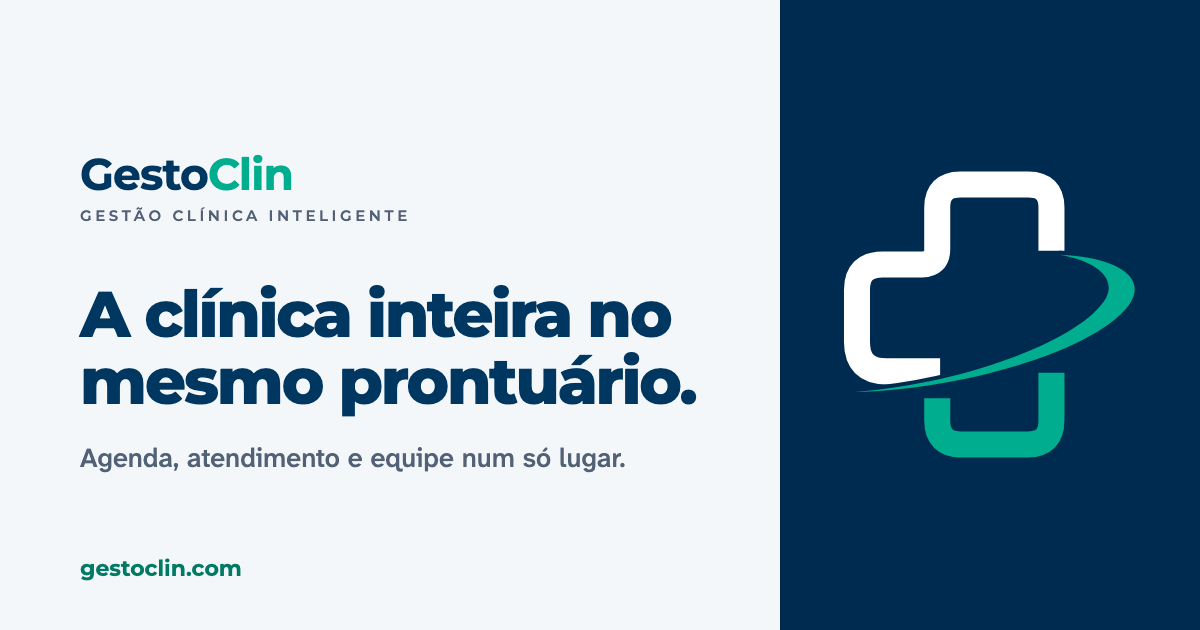
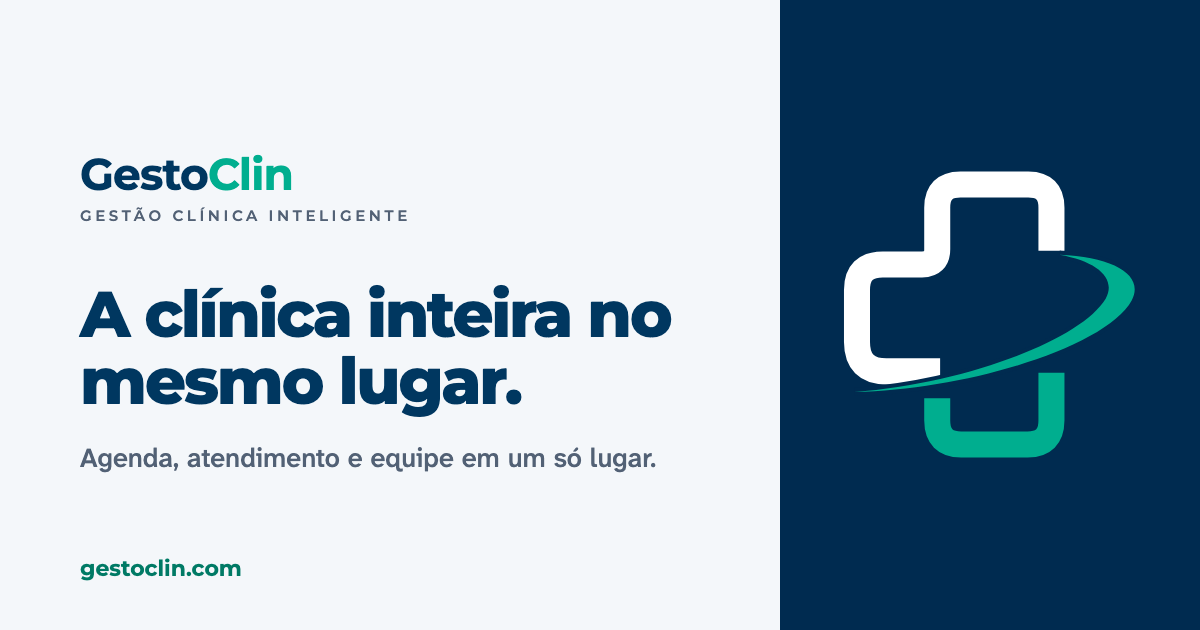
Atualiza o texto do hero, o menu Acessos e a imagem de compartilhamento

Changed region(s): [[0.2775, 0.5429, 0.5858, 0.6635], [0.37, 0.6937, 0.555, 0.754]]

diff --git a/app/components/landing/HeroSection.vue b/app/components/landing/HeroSection.vue
@@ -6,15 +6,15 @@ const loginUrl = usePlatformUrl('/entrar')
   <div class="mx-auto grid max-w-290 grid-cols-1 items-center gap-12 px-4 pt-6 pb-16 sm:px-6 lg:grid-cols-[minmax(0,1fr)_minmax(0,470px)] lg:gap-16 lg:pt-14 lg:pb-24">
     <div>
       <h1 class="mb-6 max-w-[16ch] text-[clamp(40px,5.6vw,68px)] leading-[1.02] font-extrabold tracking-[-0.035em] lg:max-w-[13ch]">
-        A clínica inteira no mesmo prontuário.
+        A clínica inteira no mesmo lugar.
       </h1>
       <p class="mb-9 max-w-[36ch] text-lg text-muted-foreground sm:text-xl">
-        Agenda, atendimento e equipe num só lugar. A recepção marca, o médico atende, o gestor acompanha, e cada um vê só o que precisa.
+        Agenda, atendimento e equipe em um só lugar. A recepção marca, o médico atende e o gestor acompanha, mas cada um com o seu acesso e suas permissões.
       </p>
       <div class="flex flex-wrap gap-3">
         <Button as="a" :href="loginUrl" size="lg" class="w-full sm:w-auto">Entrar na plataforma</Button>
         <Button as="a" href="#recursos" size="lg" variant="outline" class="w-full border-[#b6c4d3] bg-transparent text-primary sm:w-auto">
-          Ver o que dá para fazer
+          Quero ver mais
         </Button>
       </div>
       <p class="mt-5.5 text-[15px] text-muted-foreground">Funciona no navegador. Não precisa instalar nada.</p>

diff --git a/nuxt.config.ts b/nuxt.config.ts
@@ -34,7 +34,7 @@ export default defineNuxtConfig({
         { property: 'og:image:type', content: 'image/png' },
         { property: 'og:image:width', content: '1200' },
         { property: 'og:image:height', content: '630' },
-        { property: 'og:image:alt', content: 'GestoClin: a clínica inteira no mesmo prontuário.' },
+        { property: 'og:image:alt', content: 'GestoClin: a clínica inteira no mesmo lugar.' },
         { name: 'twitter:card', content: 'summary_large_image' },
         { name: 'twitter:title', content: title },
         { name: 'twitter:description', content: description },

diff --git a/app/components/landing/SiteHeader.vue b/app/components/landing/SiteHeader.vue
@@ -9,7 +9,7 @@ const loginUrl = usePlatformUrl('/entrar')
     </a>
     <nav aria-label="Principal" class="flex items-center gap-7">
       <a href="#recursos" class="hidden font-medium text-muted-foreground hover:text-primary sm:inline">Recursos</a>
-      <a href="#acessos" class="hidden font-medium text-muted-foreground hover:text-primary sm:inline">Quem vê o quê</a>
+      <a href="#acessos" class="hidden font-medium text-muted-foreground hover:text-primary sm:inline">Acessos</a>
       <Button as="a" :href="loginUrl" class="h-11 px-5">Entrar</Button>
     </nav>
   </header>

diff --git a/docs/og/og-image.html b/docs/og/og-image.html
@@ -19,8 +19,8 @@
   <div class="copy">
     <div class="name"><b>Gesto</b><i>Clin</i></div>
     <div class="tag">Gestão clínica inteligente</div>
-    <h1>A clínica inteira no mesmo prontuário.</h1>
-    <p>Agenda, atendimento e equipe num só lugar.</p>
+    <h1>A clínica inteira no mesmo lugar.</h1>
+    <p>Agenda, atendimento e equipe em um só lugar.</p>
   </div>
   <div class="url">gestoclin.com</div>
   <div class="band">
